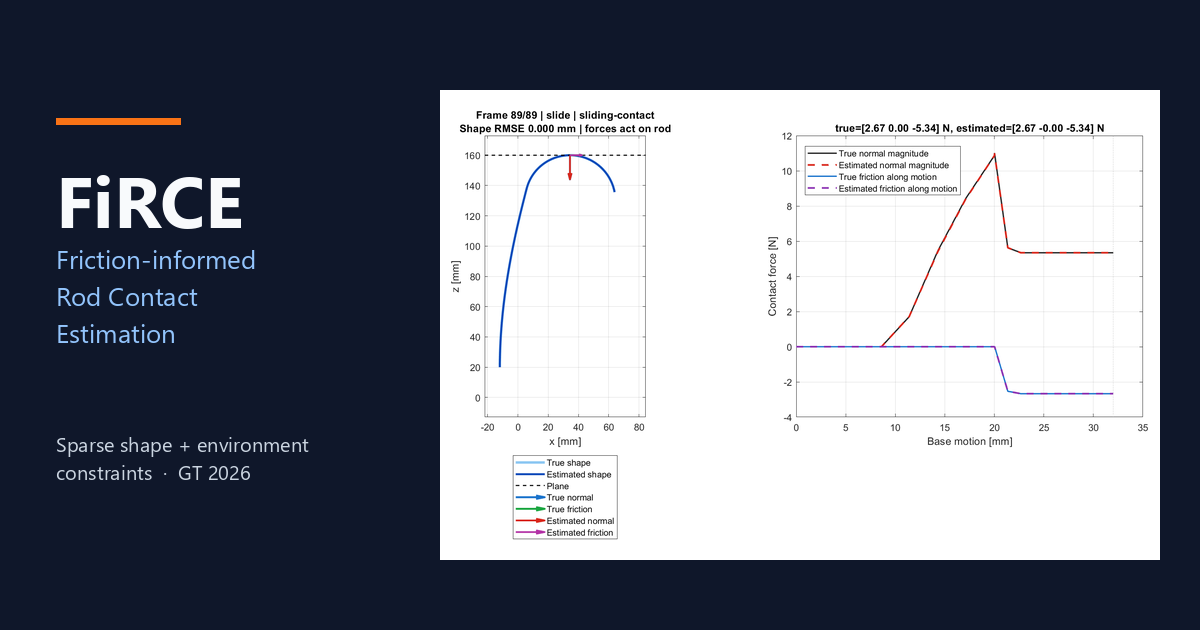
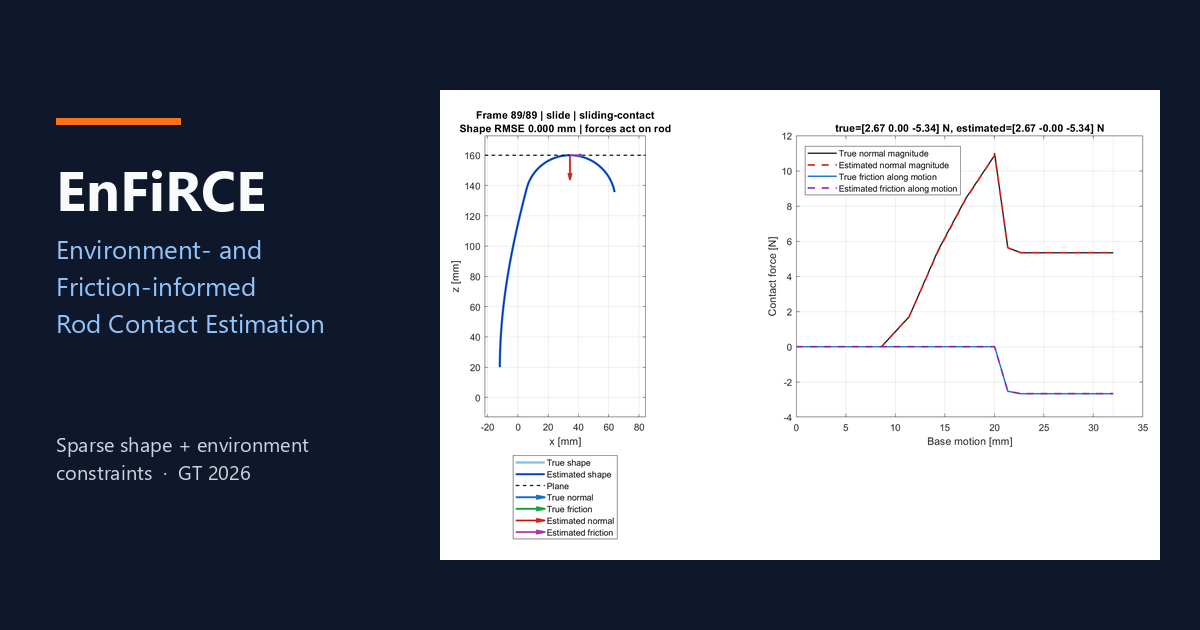
Rebrand the project page to EnFiRCE and the org GitHub Pages URL.

Changed region(s): [[0.0308, 0.3921, 0.2775, 0.5429], [0.0308, 0.2714, 0.2158, 0.3619]]

diff --git a/index.html b/index.html
@@ -4,7 +4,7 @@
   <meta charset="utf-8">
   <meta name="viewport" content="width=device-width, initial-scale=1">
 
-  <meta name="title" content="FiRCE: Friction-informed Rod Contact Estimation">
+  <meta name="title" content="EnFiRCE: Environment- and Friction-informed Rod Contact Estimation">
   <meta name="description" content="Estimate contact and tip forces on a slender continuum rod from sparse shape measurements, base motion, and planar environment constraints.">
   <meta name="keywords" content="continuum robot, force sensing, friction, complementarity, EKF, MAP, FBG, rod contact, Georgia Tech">
   <meta name="author" content="Tongyu Wang">
@@ -13,13 +13,13 @@
 
   <meta property="og:type" content="article">
   <meta property="og:site_name" content="Georgia Institute of Technology">
-  <meta property="og:title" content="FiRCE: Friction-informed Rod Contact Estimation">
+  <meta property="og:title" content="EnFiRCE: Environment- and Friction-informed Rod Contact Estimation">
   <meta property="og:description" content="Estimate contact and tip forces on a slender continuum rod from sparse shape measurements and environment constraints.">
-  <meta property="og:url" content="https://universeleaf.github.io/firce.github.io/">
-  <meta property="og:image" content="https://universeleaf.github.io/firce.github.io/static/images/social_preview.png">
+  <meta property="og:url" content="https://enfirce.github.io/">
+  <meta property="og:image" content="https://enfirce.github.io/static/images/social_preview.png">
   <meta property="og:image:width" content="1200">
   <meta property="og:image:height" content="630">
-  <meta property="og:image:alt" content="FiRCE hooked-rod force estimation result">
+  <meta property="og:image:alt" content="EnFiRCE hooked-rod force estimation result">
   <meta property="article:published_time" content="2026-09-18T00:00:00.000Z">
   <meta property="article:author" content="Tongyu Wang">
   <meta property="article:section" content="Research">
@@ -27,17 +27,17 @@
   <meta property="article:tag" content="force sensing">
 
   <meta name="twitter:card" content="summary_large_image">
-  <meta name="twitter:title" content="FiRCE: Friction-informed Rod Contact Estimation">
+  <meta name="twitter:title" content="EnFiRCE: Environment- and Friction-informed Rod Contact Estimation">
   <meta name="twitter:description" content="Sparse shape + environment constraints for rod contact and tip force estimation.">
-  <meta name="twitter:image" content="https://universeleaf.github.io/firce.github.io/static/images/social_preview.png">
-  <meta name="twitter:image:alt" content="FiRCE hooked-rod force estimation result">
+  <meta name="twitter:image" content="https://enfirce.github.io/static/images/social_preview.png">
+  <meta name="twitter:image:alt" content="EnFiRCE hooked-rod force estimation result">
 
-  <meta name="citation_title" content="FiRCE: Friction-informed Rod Contact Estimation">
+  <meta name="citation_title" content="EnFiRCE: Environment- and Friction-informed Rod Contact Estimation">
   <meta name="citation_author" content="Wang, Tongyu">
   <meta name="citation_publication_date" content="2026">
   <meta name="theme-color" content="#0f172a">
 
-  <title>FiRCE: Friction-informed Rod Contact Estimation</title>
+  <title>EnFiRCE: Environment- and Friction-informed Rod Contact Estimation</title>
   <link rel="icon" type="image/svg+xml" href="static/images/favicon.svg">
   <link rel="icon" type="image/png" href="static/images/favicon.png">
   <link rel="apple-touch-icon" href="static/images/favicon.png">
@@ -63,7 +63,7 @@
   {
     "@context": "https://schema.org",
     "@type": "ScholarlyArticle",
-    "headline": "FiRCE: Friction-informed Rod Contact Estimation",
+    "headline": "EnFiRCE: Environment- and Friction-informed Rod Contact Estimation",
     "description": "Estimate contact and independent tip forces on a slender continuum rod from sparse curvature measurements and planar environment constraints.",
     "author": [{
       "@type": "Person",
@@ -71,8 +71,8 @@
       "affiliation": {"@type": "Organization", "name": "Georgia Institute of Technology"}
     }],
     "datePublished": "2026-09-18",
-    "url": "https://universeleaf.github.io/firce.github.io/",
-    "image": "https://universeleaf.github.io/firce.github.io/static/images/social_preview.png",
+    "url": "https://enfirce.github.io/",
+    "image": "https://enfirce.github.io/static/images/social_preview.png",
     "keywords": ["continuum robot", "force sensing", "friction", "complementarity", "EKF"],
     "isAccessibleForFree": true
   }
@@ -90,7 +90,7 @@
         <div class="columns is-centered">
           <div class="column has-text-centered">
             <h1 class="title is-1 publication-title">
-              <span class="acronym">FiRCE</span>: Friction-informed Rod Contact Estimation
+              <span class="acronym">EnFiRCE</span>: Environment- and Friction-informed Rod Contact Estimation
             </h1>
             <div class="is-size-5 publication-authors">
               <span class="author-block">
@@ -136,7 +136,7 @@
           <source src="static/videos/teaser.mp4" type="video/mp4">
         </video>
         <h2 class="subtitle has-text-centered">
-          A hooked 200&nbsp;mm rod is pushed into a ceiling plane and then slid. FiRCE recovers contact force, friction, and an unknown tip load from sparse simulated FBG curvature, without using dense true shape history.
+          A hooked 200&nbsp;mm rod is pushed into a ceiling plane and then slid. EnFiRCE recovers contact force, friction, and an unknown tip load from sparse simulated FBG curvature, without using dense true shape history.
         </h2>
       </div>
     </div>
@@ -152,10 +152,10 @@
               A slender continuum rod bends when it touches an object. We want the forces that the object exerts on the rod, using only sparse bending measurements, commanded base motion, and a geometric model of the contact surface — not a force sensor at the contact.
             </p>
             <p>
-              <span class="acronym">FiRCE</span> (Friction-informed Rod Contact Estimation) treats this as a constrained inverse problem. Simulated fiber Bragg grating (FBG) samples are interpolated relative to a calibrated intrinsic curvature, then a constrained MAP / iterated EKF update estimates contact location, a polyhedral Coulomb friction force, and an independent tip load. Unilateral contact and friction complementarity are enforced when the data can resolve stick versus slip. When paired curvature noise makes that mode unidentifiable, the estimator keeps the friction cone but withholds exact tangential kinematics and flags the frame for review.
+              <span class="acronym">EnFiRCE</span> (Environment- and Friction-informed Rod Contact Estimation) treats this as a constrained inverse problem. Simulated fiber Bragg grating (FBG) samples are interpolated relative to a calibrated intrinsic curvature, then a constrained MAP / iterated EKF update estimates contact location, a polyhedral Coulomb friction force, and an independent tip load. Unilateral contact and friction complementarity are enforced when the data can resolve stick versus slip. When paired curvature noise makes that mode unidentifiable, the estimator keeps the friction cone but withholds exact tangential kinematics and flags the frame for review.
             </p>
             <p>
-              On calibrated, noise-free planar simulations, FiRCE recovers contact and tip forces on the hooked-rod trajectory to about 0.016&nbsp;N RMSE, and it separates a nonzero unknown tip load from body contact. A synthetic metric-depth frontend can supply the plane with covariance. All numbers on this page are offline simulations. They are not a hardware, real-time, or publication-ready claim.
+              On calibrated, noise-free planar simulations, EnFiRCE recovers contact and tip forces on the hooked-rod trajectory to about 0.016&nbsp;N RMSE, and it separates a nonzero unknown tip load from body contact. A synthetic metric-depth frontend can supply the plane with covariance. All numbers on this page are offline simulations. They are not a hardware, real-time, or publication-ready claim.
             </p>
           </div>
         </div>
@@ -166,7 +166,7 @@
   <section class="section" id="method">
     <div class="container is-max-desktop">
       <h2 class="title is-3 has-text-centered">Method</h2>
-      <svg class="pipeline" viewBox="0 0 960 168" role="img" aria-label="FiRCE pipeline from sparse sensors to estimated forces">
+      <svg class="pipeline" viewBox="0 0 960 168" role="img" aria-label="EnFiRCE pipeline from sparse sensors to estimated forces">
         <defs>
           <marker id="arrow" viewBox="0 0 10 10" refX="9" refY="5" markerWidth="8" markerHeight="8" orient="auto-start-reverse">
             <path d="M 0 0 L 10 5 L 0 10 z" fill="#1d4ed8"/>
@@ -210,7 +210,7 @@
         <div class="method-card">
           <span class="step">04 · Honesty</span>
           <h3>Unresolved mode</h3>
-          <p>If curvature noise crosses the stick/slip boundary, FiRCE does not invent a direction. It reports review-required frames.</p>
+          <p>If curvature noise crosses the stick/slip boundary, EnFiRCE does not invent a direction. It reports review-required frames.</p>
         </div>
       </div>
 
@@ -235,8 +235,8 @@
             <p class="caption">A naive reconstruction of the same hooked-rod motion can look physically wild even when a video exists. Shape error grows to more than 150&nbsp;mm. Matching a video is not the same as recovering forces.</p>
           </div>
           <div class="column">
-            <img class="result-figure" src="static/images/geometry_fit.png" alt="Approximate 200 mm hooked-rod geometry used in FiRCE" loading="lazy">
-            <p class="caption">FiRCE uses an explicit 200&nbsp;mm hooked-rod model (120&nbsp;mm straight, 30&nbsp;mm hook radius) rather than treating the video as recovered hardware parameters. The green overlay is that kinematic model.</p>
+            <img class="result-figure" src="static/images/geometry_fit.png" alt="Approximate 200 mm hooked-rod geometry used in EnFiRCE" loading="lazy">
+            <p class="caption">EnFiRCE uses an explicit 200&nbsp;mm hooked-rod model (120&nbsp;mm straight, 30&nbsp;mm hook radius) rather than treating the video as recovered hardware parameters. The green overlay is that kinematic model.</p>
           </div>
         </div>
       </div>
@@ -295,7 +295,7 @@
           </div>
           <div class="column">
             <img class="result-figure" src="static/images/wall_components.png" alt="Component-wise force comparison with unknown tip load" loading="lazy">
-            <p class="caption">With a nonzero unknown tip load, shape-only contact/tip RMSE jumps to 1.81 / 1.81&nbsp;N. FiRCE stays at 0.159 / 0.168&nbsp;N. The plane constraint is doing the work.</p>
+            <p class="caption">With a nonzero unknown tip load, shape-only contact/tip RMSE jumps to 1.81 / 1.81&nbsp;N. EnFiRCE stays at 0.159 / 0.168&nbsp;N. The plane constraint is doing the work.</p>
           </div>
         </div>
         <div class="columns is-centered">
@@ -414,7 +414,7 @@
       <div class="container is-max-desktop">
         <h2 class="title is-3 has-text-centered">What this page does not claim</h2>
         <div class="callout">
-          FiRCE is a reproducible simulation prototype. It is not a submitted RA-L paper, not a hardware FBG/camera system, not 50&nbsp;Hz real-time sensing, and not a proof of general noise robustness. EKF, RANSAC, and friction cones are not the claimed novelty; the working hypothesis is that environment constraints improve force split and that unidentifiable stick/slip should be reported instead of hidden.
+          EnFiRCE is a reproducible simulation prototype. It is not a submitted RA-L paper, not a hardware FBG/camera system, not 50&nbsp;Hz real-time sensing, and not a proof of general noise robustness. EKF, RANSAC, and friction cones are not the claimed novelty; the working hypothesis is that environment constraints improve force split and that unidentifiable stick/slip should be reported instead of hidden.
         </div>
         <div class="content">
           <ul>
@@ -437,12 +437,12 @@
           <span class="copy-text">Copy</span>
         </button>
       </div>
-      <pre id="bibtex-code"><code>@misc{wang2026firce,
+      <pre id="bibtex-code"><code>@misc{wang2026enfirce,
   author = {Wang, Tongyu},
-  title  = {{FiRCE}: Friction-informed Rod Contact Estimation},
+  title  = {{EnFiRCE}: Environment- and Friction-informed Rod Contact Estimation},
   year   = {2026},
   note   = {Project page},
-  url    = {https://universeleaf.github.io/firce.github.io/}
+  url    = {https://enfirce.github.io/}
 }</code></pre>
     </div>
   </section>
@@ -458,7 +458,7 @@
               <a href="https://github.com/eliahuhorwitz/Academic-project-page-template" target="_blank" rel="noopener">Academic Project Page Template</a>,
               adopted from the <a href="https://nerfies.github.io" target="_blank" rel="noopener">Nerfies</a> project page.
               Source for this site:
-              <a href="https://github.com/universeleaf/firce.github.io" target="_blank" rel="noopener">universeleaf/firce.github.io</a>.
+              <a href="https://github.com/EnFiRCE/EnFiRCE.github.io" target="_blank" rel="noopener">EnFiRCE/EnFiRCE.github.io</a>.
               MATLAB code:
               <a href="https://github.com/universeleaf/force-sensor" target="_blank" rel="noopener">universeleaf/force-sensor</a>.
               <br>

diff --git a/scripts/make_preview.py b/scripts/make_preview.py
@@ -27,7 +27,7 @@ panel.paste(src, (px, py))
 canvas.paste(panel, (440, 90))
 
 try:
-    title_font = ImageFont.truetype("C:/Windows/Fonts/segoeuib.ttf", 72)
+    title_font = ImageFont.truetype("C:/Windows/Fonts/segoeuib.ttf", 56)
     sub_font = ImageFont.truetype("C:/Windows/Fonts/segoeui.ttf", 26)
     small_font = ImageFont.truetype("C:/Windows/Fonts/segoeui.ttf", 20)
 except OSError:
@@ -35,10 +35,10 @@ except OSError:
     sub_font = title_font
     small_font = title_font
 
-draw.text((56, 150), "FiRCE", font=title_font, fill="#f8fafc")
+draw.text((56, 150), "EnFiRCE", font=title_font, fill="#f8fafc")
 draw.text(
-    (56, 240),
-    "Friction-informed\nRod Contact\nEstimation",
+    (56, 230),
+    "Environment- and\nFriction-informed\nRod Contact Estimation",
     font=sub_font,
     fill="#93c5fd",
     spacing=8,

diff --git a/README.md b/README.md
@@ -1,8 +1,8 @@
-# FiRCE
+# EnFiRCE
 
-**FiRCE** (*Friction-informed Rod Contact Estimation*) is the project page for a Georgia Tech simulation study on recovering contact and tip forces on a slender continuum rod from sparse shape measurements and planar environment constraints.
+**EnFiRCE** (*Environment- and Friction-informed Rod Contact Estimation*) is the project page for a Georgia Tech simulation study on recovering contact and tip forces on a slender continuum rod from sparse shape measurements and planar environment constraints.
 
-- Live page: https://universeleaf.github.io/firce.github.io/
+- Live page: https://enfirce.github.io/
 - MATLAB code: https://github.com/universeleaf/force-sensor
 
 This repository is a static GitHub Pages site, adapted from the [Academic Project Page Template](https://github.com/eliahuhorwitz/Academic-project-page-template) / [Nerfies](https://nerfies.github.io/).
